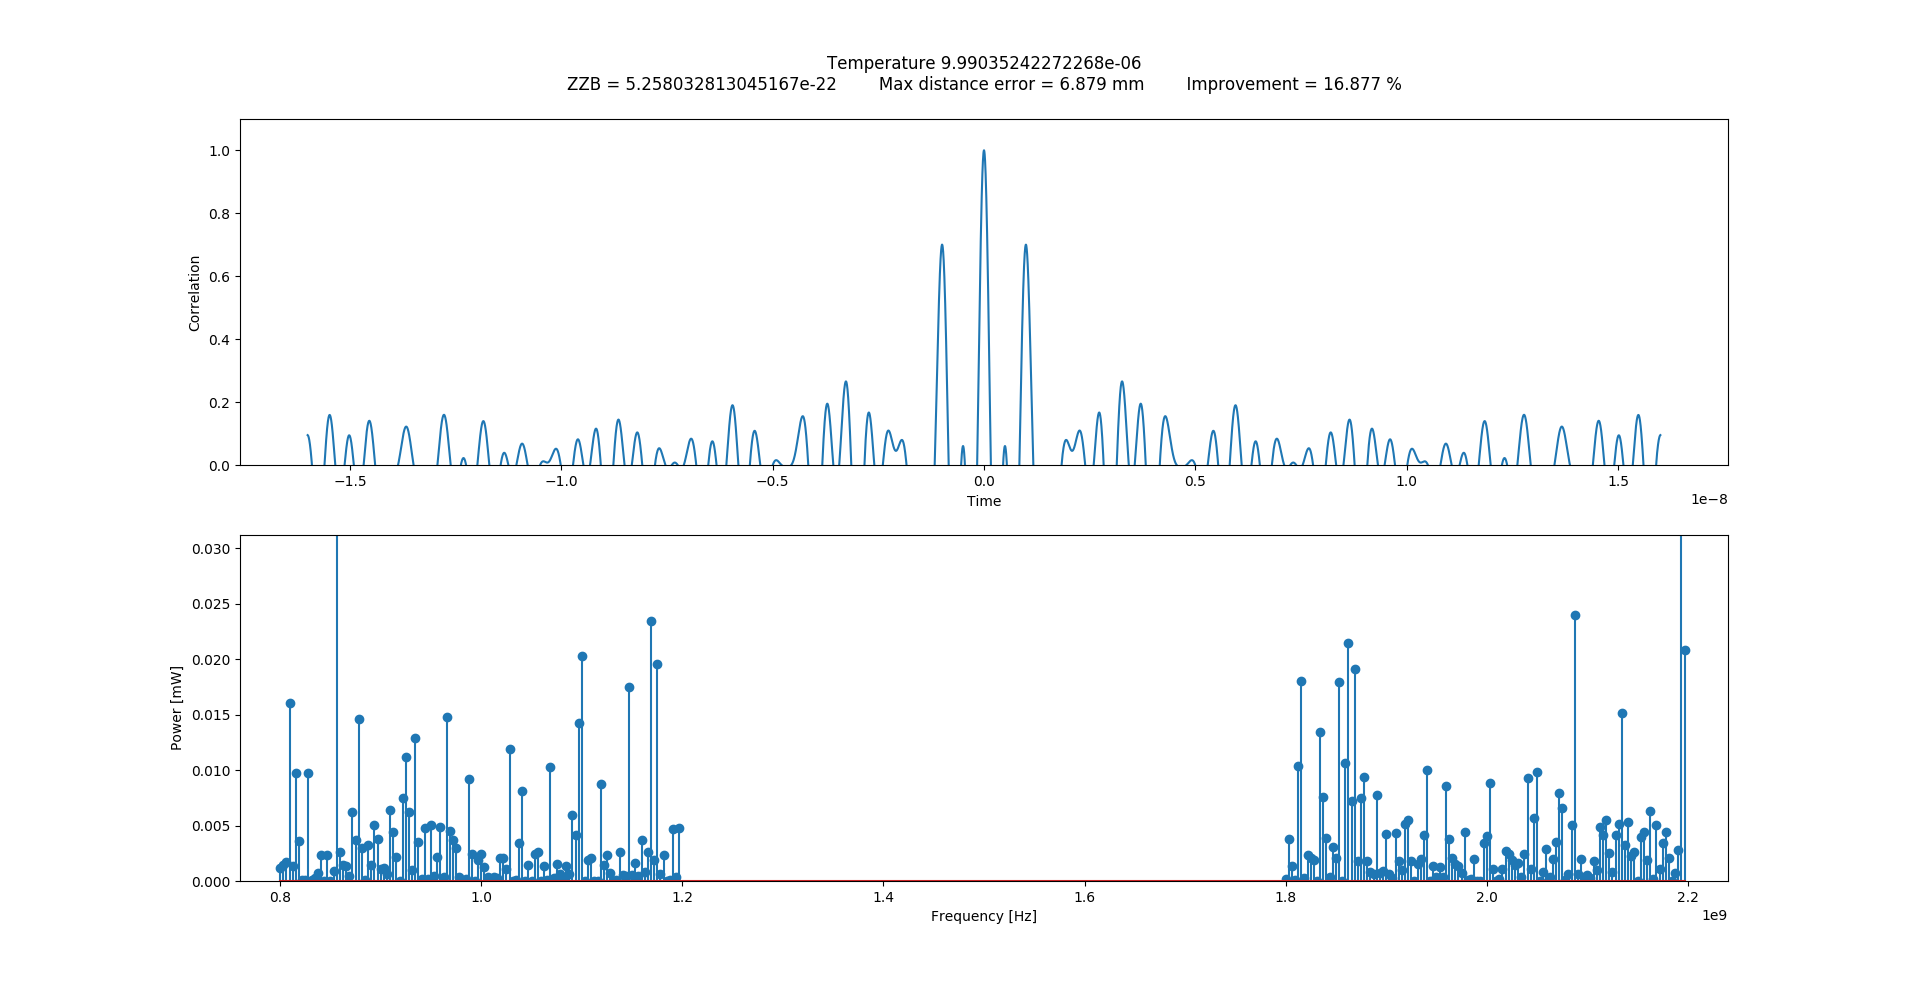
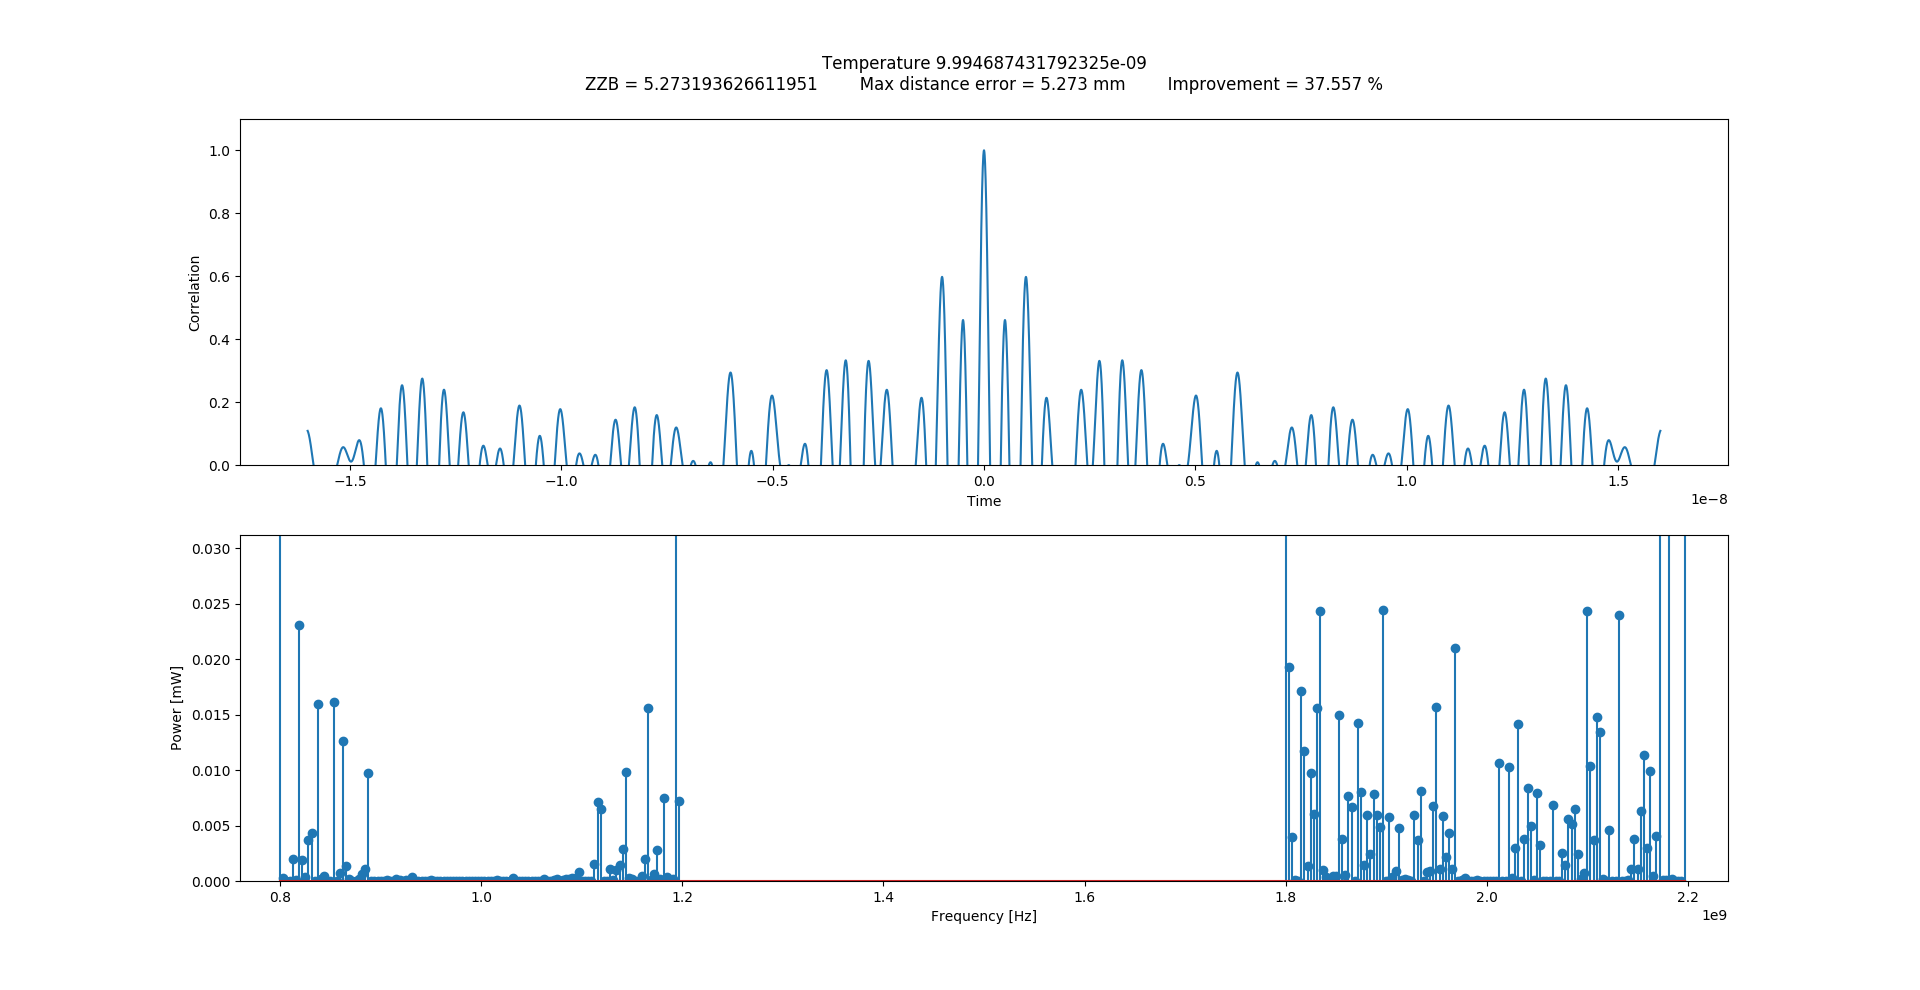
Simulated annealing parameter tweaking

diff --git a/sim_anne.py b/sim_anne.py
@@ -24,16 +24,16 @@ deltaT_list                 = np.array(np.arange(-OBSERVATION_PERIOD/2, OBSERVAT
 deltaT_vector               = matlab.double(deltaT_list)
 
 # Simmulated annealing algorithm constants
-INITIAL_TEMP                = 100
-FINAL_TEMP                  = 0.00001
-MAX_NUM_OF_MUTATION_SWAPS   = 4
+INITIAL_TEMP                = 1
+FINAL_TEMP                  = 0.00000001
+MAX_NUM_OF_MUTATION_SWAPS   = 24
 COOLING_CONST               = 0.999
 
 
 # ------------------------------------------- Functions ------------------------------------------- #
 def plotCandidate(candidate, fitness, correlationVector):
 
-    maxDistanceError = math.sqrt(fitness) * 3e8
+    maxDistanceError = fitness
 
     if initialError[0] == 0:
         initialError[0] = maxDistanceError
@@ -44,7 +44,7 @@ def plotCandidate(candidate, fitness, correlationVector):
     plt.subplot(2, 1, 1)
     plt.cla()
     plt.axis([1.1 * min(deltaT_list), 1.1 * max(deltaT_list), 0, 1.1 * max(correlationVector)])
-    plt.title("Temperature " + str(currentTemperature) + "\nZZB = " + str(fitness) + "        Max distance error = " + str(round(maxDistanceError * 1000, 3)) + " mm        Improvement = " + str(improvementPercentage) + " %\n")
+    plt.title("Temperature " + str(currentTemperature) + "\nZZB = " + str(fitness) + "        Max distance error = " + str(round(maxDistanceError, 3)) + " mm        Improvement = " + str(improvementPercentage) + " %\n")
     plt.plot(deltaT_list, correlationVector)
     plt.ylabel('Correlation')
     plt.xlabel('Time')
@@ -65,7 +65,8 @@ def plotCandidate(candidate, fitness, correlationVector):
 
 def calcFitness(candidate):
 
-    return matlabEngine.zzb(float(SNR), matlab_freqBins, matlab.double(candidate), float(OBSERVATION_PERIOD), nargout=1)
+    # fitness defined as distance error in milimeters
+    return math.sqrt(matlabEngine.zzb(float(SNR), matlab_freqBins, matlab.double(candidate), float(OBSERVATION_PERIOD), nargout=1)) * 3e8 * 1000
 
 
 
@@ -131,7 +132,7 @@ while currentTemperature > FINAL_TEMP:
         plotCandidate(currentCandidate, currentCandidateFitness, acf_vec_output)
     else:
         p = math.exp(-(newCandidateFitness - currentCandidateFitness) / currentTemperature)
-        randomTreshold = random.randrange(20, 100) / 100
+        randomTreshold = random.randrange(1, 100) / 100
         if p > randomTreshold:
             currentCandidate[:] = newCandidate[:]
             currentCandidateFitness = newCandidateFitness
